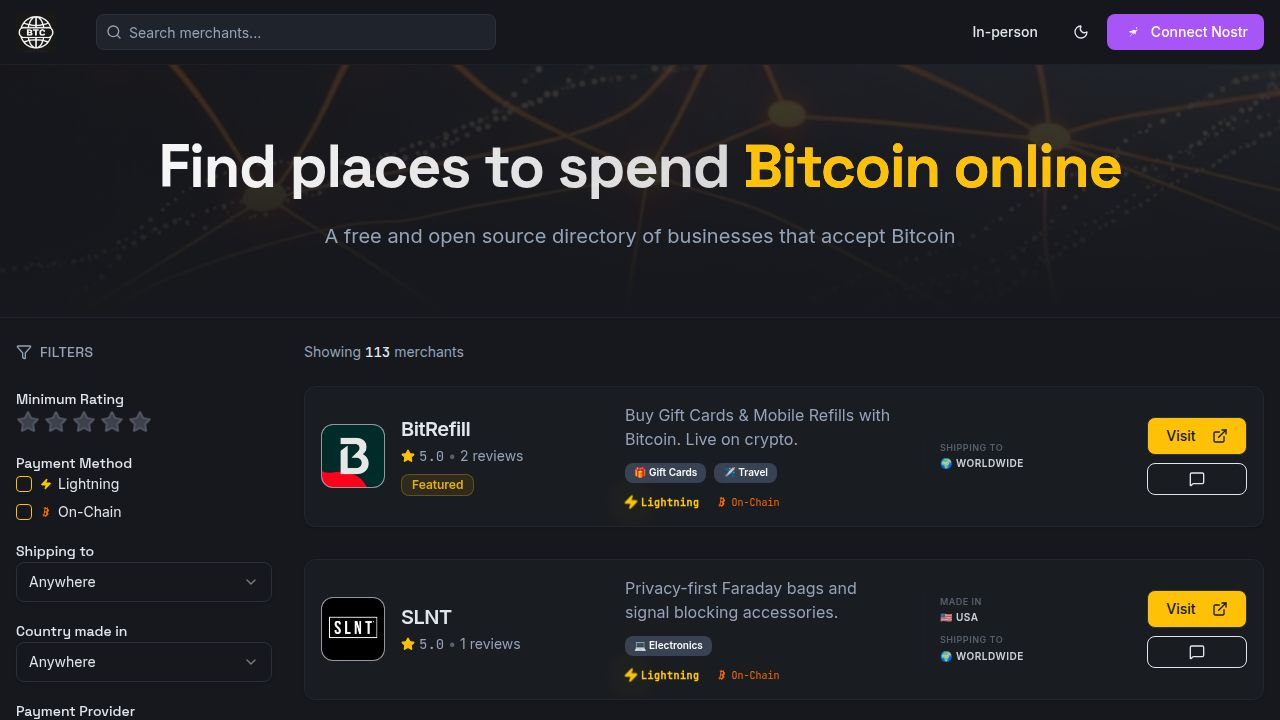
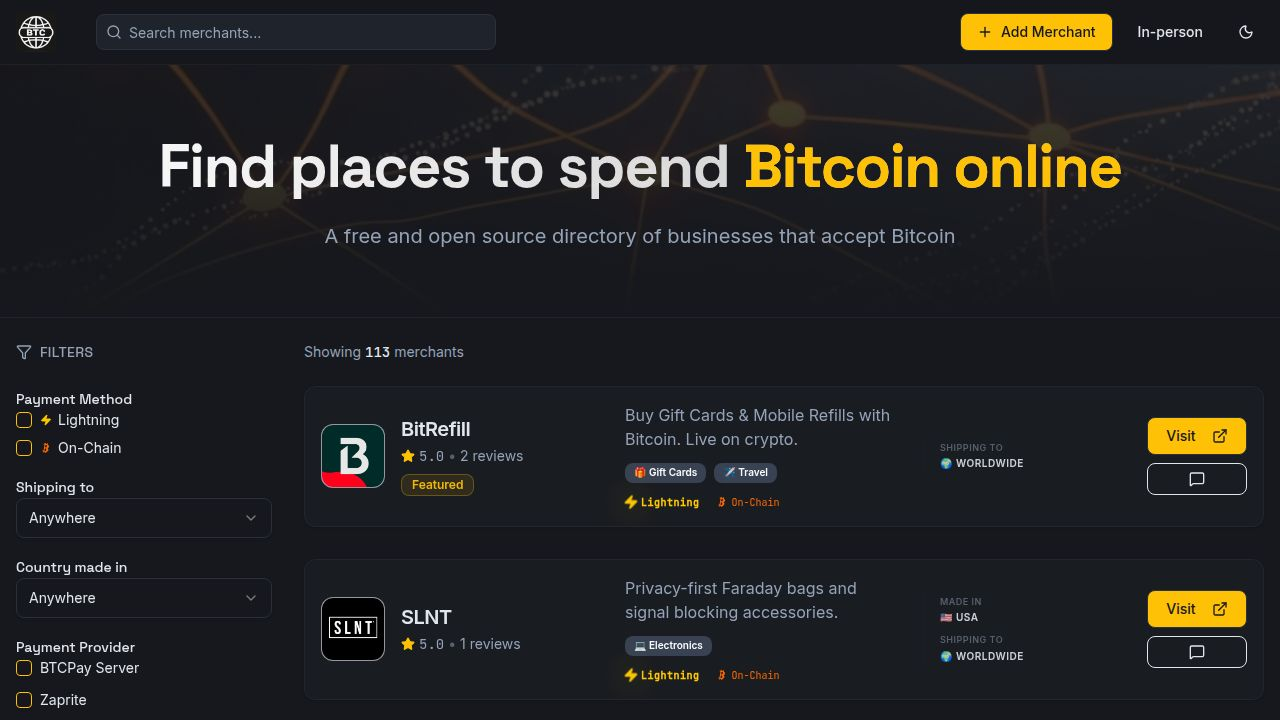
Remove the rating and review features from the application
Removes the minimum rating filter in filters.tsx, star rating display and review button/dialog in merchant-card.tsx, and minRating state and related filter logic in home.tsx.

Replit-Commit-Author: Agent
Replit-Commit-Session-Id: 270ebf68-5538-466f-b15a-78a0c3cc9a24
Replit-Commit-Checkpoint-Type: full_checkpoint
Replit-Commit-Event-Id: ea10f0eb-face-4f55-996a-c2f4ad9a05b1
Replit-Commit-Screenshot-Url: https://storage.googleapis.com/screenshot-production-us-central1/836d56c9-18a9-46ad-9972-6a9fa87541a8/270ebf68-5538-466f-b15a-78a0c3cc9a24/n8XkgZL
Replit-Helium-Checkpoint-Created: true

Changed region(s): [[0.75, 0.0, 1.0, 0.0917], [0.0, 0.7639, 0.125, 1.0], [0.0, 0.55, 0.125, 0.7333]]

diff --git a/client/src/components/merchant-card.tsx b/client/src/components/merchant-card.tsx
@@ -3,28 +3,16 @@ import { Button } from "@/components/ui/button";
 import {
   Card,
   CardDescription,
-  CardFooter,
-  CardHeader,
   CardTitle,
 } from "@/components/ui/card";
 import { Merchant } from "@/lib/mock-data";
-import { ExternalLink, Star, Zap, Bitcoin, MessageSquare } from "lucide-react";
-import { useState } from "react";
-import { Dialog, DialogContent, DialogDescription, DialogFooter, DialogHeader, DialogTitle, DialogTrigger } from "@/components/ui/dialog";
-import { Textarea } from "@/components/ui/textarea";
-import { Label } from "@/components/ui/label";
-import { useToast } from "@/hooks/use-toast";
+import { ExternalLink, Zap, Bitcoin } from "lucide-react";
 
 interface MerchantCardProps {
   merchant: Merchant;
 }
 
 export default function MerchantCard({ merchant }: MerchantCardProps) {
-  const { toast } = useToast();
-  const [isReviewOpen, setIsReviewOpen] = useState(false);
-  const averageRating = merchant.reviews.length > 0 
-    ? merchant.reviews.reduce((acc, curr) => acc + curr.rating, 0) / merchant.reviews.length 
-    : 0;
 
   const getCategoryEmoji = (category: string) => {
     const categoryEmojis: Record<string, string> = {
@@ -75,15 +63,6 @@ export default function MerchantCard({ merchant }: MerchantCardProps) {
       "Italy": "🇮🇹"
     };
     return countries[pureName] || countries[countryName] || "📍";
-  };
-
-  const handleSubmitReview = (e: React.FormEvent) => {
-    e.preventDefault();
-    setIsReviewOpen(false);
-    toast({
-      title: "Review Submitted",
-      description: "Your review has been signed and published to the relay.",
-    });
   };
 
   const getIconBgColor = () => {
@@ -264,12 +243,6 @@ export default function MerchantCard({ merchant }: MerchantCardProps) {
           </div>
           <div className="space-y-1 overflow-hidden">
             <CardTitle className="text-xl leading-tight truncate" title={merchant.name}>{merchant.name}</CardTitle>
-            <div className="flex items-center text-sm text-muted-foreground gap-1">
-              <Star className="h-3.5 w-3.5 fill-primary text-primary" />
-              <span className="font-mono">{averageRating > 0 ? averageRating.toFixed(1) : "New"}</span>
-              <span className="text-muted-foreground/50">•</span>
-              <span>{merchant.reviews.length} reviews</span>
-            </div>
             {merchant.featured && (
               <Badge variant="outline" className="mt-1 border-primary/30 text-primary bg-primary/10 animate-pulse-slow">
                 Featured
@@ -349,47 +322,6 @@ export default function MerchantCard({ merchant }: MerchantCardProps) {
               Visit <ExternalLink className="ml-2 h-3 w-3" />
             </a>
           </Button>
-          
-          <Dialog open={isReviewOpen} onOpenChange={setIsReviewOpen}>
-            <DialogTrigger asChild>
-              <Button variant="outline" size="sm" className="px-2" title="Write a review">
-                <MessageSquare className="h-4 w-4" />
-              </Button>
-            </DialogTrigger>
-            <DialogContent>
-              <DialogHeader>
-                <DialogTitle>Write a review for {merchant.name}</DialogTitle>
-                <DialogDescription>
-                  Share your experience. Your review will be cryptographically signed.
-                </DialogDescription>
-              </DialogHeader>
-              <form onSubmit={handleSubmitReview} className="space-y-4 py-4">
-                <div className="space-y-2">
-                  <Label htmlFor="rating">Rating</Label>
-                  <div className="flex gap-2">
-                    {[1, 2, 3, 4, 5].map((star) => (
-                      <Button 
-                        key={star} 
-                        type="button" 
-                        variant="ghost" 
-                        size="sm"
-                        className="p-0 h-8 w-8 hover:bg-transparent"
-                      >
-                        <Star className="h-6 w-6 text-muted hover:text-primary fill-muted hover:fill-primary transition-colors" />
-                      </Button>
-                    ))}
-                  </div>
-                </div>
-                <div className="space-y-2">
-                  <Label htmlFor="comment">Comment</Label>
-                  <Textarea id="comment" placeholder="Tell us about your purchase..." required />
-                </div>
-                <DialogFooter>
-                  <Button type="submit">Sign & Publish</Button>
-                </DialogFooter>
-              </form>
-            </DialogContent>
-          </Dialog>
         </div>
       </div>
     </Card>

diff --git a/client/src/components/filters.tsx b/client/src/components/filters.tsx
@@ -1,13 +1,10 @@
-import { Badge } from "@/components/ui/badge";
 import { Button } from "@/components/ui/button";
 import { Checkbox } from "@/components/ui/checkbox";
 import { Label } from "@/components/ui/label";
 import { ScrollArea } from "@/components/ui/scroll-area";
 import { Select, SelectContent, SelectItem, SelectTrigger, SelectValue } from "@/components/ui/select";
 import { CATEGORIES, COUNTRIES, PAYMENT_PROVIDERS } from "@/lib/mock-data";
-import { Bitcoin, Filter, Star, X, Zap } from "lucide-react";
-import { cn } from "@/lib/utils";
-import { useState } from "react";
+import { Bitcoin, Filter, X, Zap } from "lucide-react";
 
 interface FiltersProps {
   selectedCategories: string[];
@@ -18,8 +15,6 @@ interface FiltersProps {
   onMadeInChange: (country: string) => void;
   selectedProviders: string[];
   onProviderChange: (provider: string) => void;
-  minRating: number;
-  onRatingChange: (rating: number) => void;
   selectedPaymentMethods: string[];
   onPaymentMethodChange: (method: string) => void;
   onClear: () => void;
@@ -34,13 +29,10 @@ export default function Filters({
   onMadeInChange,
   selectedProviders,
   onProviderChange,
-  minRating,
-  onRatingChange,
   selectedPaymentMethods,
   onPaymentMethodChange,
   onClear,
 }: FiltersProps) {
-  const [hoveredRating, setHoveredRating] = useState(0);
 
   return (
     <div className="flex flex-col space-y-6">
@@ -48,7 +40,7 @@ export default function Filters({
         <h3 className="text-sm font-medium tracking-wide uppercase text-muted-foreground flex items-center gap-2">
           <Filter className="h-4 w-4" /> Filters
         </h3>
-        {(selectedCategories.length > 0 || selectedCountry !== "All" || selectedMadeIn !== "All" || minRating > 0 || selectedProviders.length > 0 || selectedPaymentMethods.length > 0) && (
+        {(selectedCategories.length > 0 || selectedCountry !== "All" || selectedMadeIn !== "All" || selectedProviders.length > 0 || selectedPaymentMethods.length > 0) && (
           <Button 
             variant="ghost" 
             size="sm" 
@@ -61,43 +53,6 @@ export default function Filters({
       </div>
 
       <div className="space-y-4">
-        <div className="space-y-3">
-          <Label className="text-sm font-display">Minimum Rating</Label>
-          <div className="flex items-center gap-1">
-            {[1, 2, 3, 4, 5].map((star) => {
-              const isActive = star <= (hoveredRating || minRating);
-              const is5Star = (hoveredRating || minRating) === 5;
-              
-              return (
-                <button
-                  key={star}
-                  type="button"
-                  onClick={() => onRatingChange(minRating === star ? 0 : star)}
-                  onMouseEnter={() => setHoveredRating(star)}
-                  onMouseLeave={() => setHoveredRating(0)}
-                  className="group focus:outline-none transition-transform active:scale-90"
-                >
-                  <Star
-                    className={cn(
-                      "h-6 w-6 transition-colors fill-current",
-                      isActive
-                        ? (is5Star ? "text-yellow-400" : "text-primary")
-                        : "text-muted-foreground/30"
-                    )}
-                  />
-                </button>
-              );
-            })}
-            <span className="ml-2 text-xs font-medium text-muted-foreground w-16">
-              {hoveredRating || minRating > 0 ? (
-                (hoveredRating || minRating) === 5 
-                  ? "5 Stars" 
-                  : `${hoveredRating || minRating}+ Stars`
-              ) : null}
-            </span>
-          </div>
-        </div>
-
         <div className="space-y-3">
           <Label className="text-sm font-display">Payment Method</Label>
           <div className="flex flex-col space-y-2">

diff --git a/client/src/pages/home.tsx b/client/src/pages/home.tsx
@@ -14,7 +14,6 @@ export default function Home() {
   const [selectedMadeIn, setSelectedMadeIn] = useState("All");
   const [selectedProviders, setSelectedProviders] = useState<string[]>([]);
   const [selectedPaymentMethods, setSelectedPaymentMethods] = useState<string[]>([]);
-  const [minRating, setMinRating] = useState(0);
 
   const filteredMerchants = useMemo(() => {
     return MOCK_MERCHANTS.filter((merchant) => {
@@ -44,15 +43,9 @@ export default function Home() {
         (selectedPaymentMethods.includes("lightning") && merchant.lightningSupported) ||
         (selectedPaymentMethods.includes("onchain") && merchant.onchainSupported);
 
-      const avgRating = merchant.reviews.length > 0 
-        ? merchant.reviews.reduce((acc, curr) => acc + curr.rating, 0) / merchant.reviews.length 
-        : 0;
-      
-      const matchesRating = avgRating >= minRating;
-
-      return matchesSearch && matchesCategory && matchesCountry && matchesMadeIn && matchesProvider && matchesPaymentMethod && matchesRating;
+      return matchesSearch && matchesCategory && matchesCountry && matchesMadeIn && matchesProvider && matchesPaymentMethod;
     });
-  }, [searchQuery, selectedCategories, selectedCountry, selectedMadeIn, selectedProviders, selectedPaymentMethods, minRating]);
+  }, [searchQuery, selectedCategories, selectedCountry, selectedMadeIn, selectedProviders, selectedPaymentMethods]);
 
   const handleCategoryChange = (category: string) => {
     setSelectedCategories(category === "All" || !category ? [] : [category]);
@@ -76,7 +69,6 @@ export default function Home() {
     setSelectedMadeIn("All");
     setSelectedProviders([]);
     setSelectedPaymentMethods([]);
-    setMinRating(0);
     setSearchQuery("");
   };
 
@@ -90,8 +82,6 @@ export default function Home() {
       onMadeInChange={setSelectedMadeIn}
       selectedProviders={selectedProviders}
       onProviderChange={handleProviderChange}
-      minRating={minRating}
-      onRatingChange={setMinRating}
       selectedPaymentMethods={selectedPaymentMethods}
       onPaymentMethodChange={handlePaymentMethodChange}
       onClear={clearFilters}
